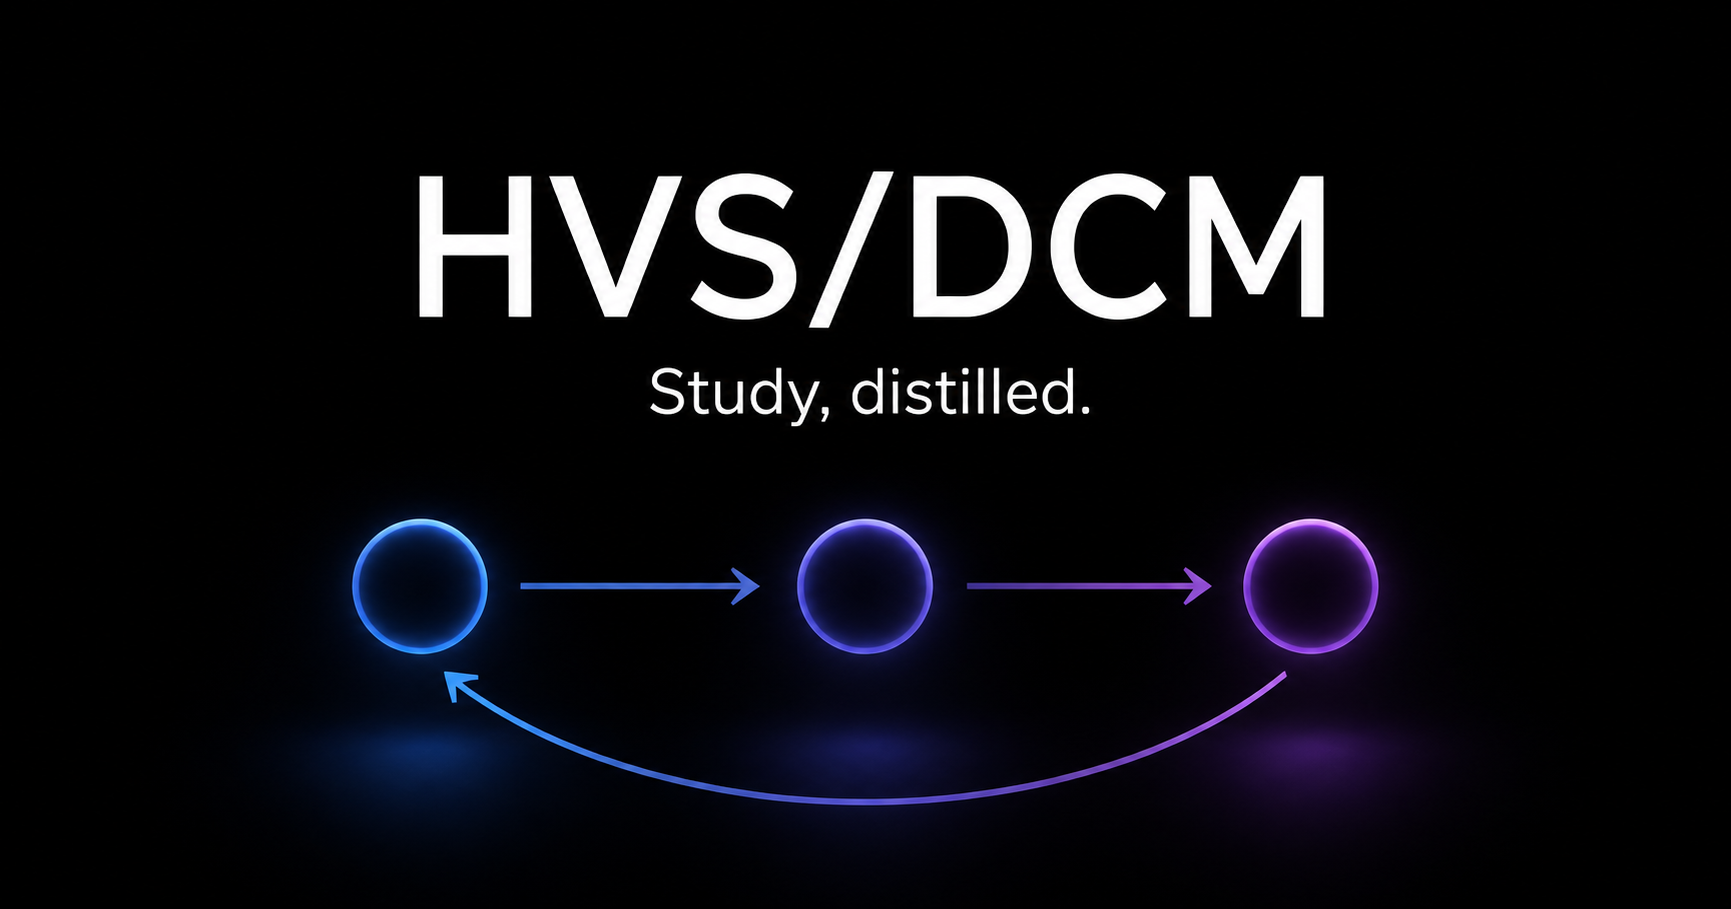
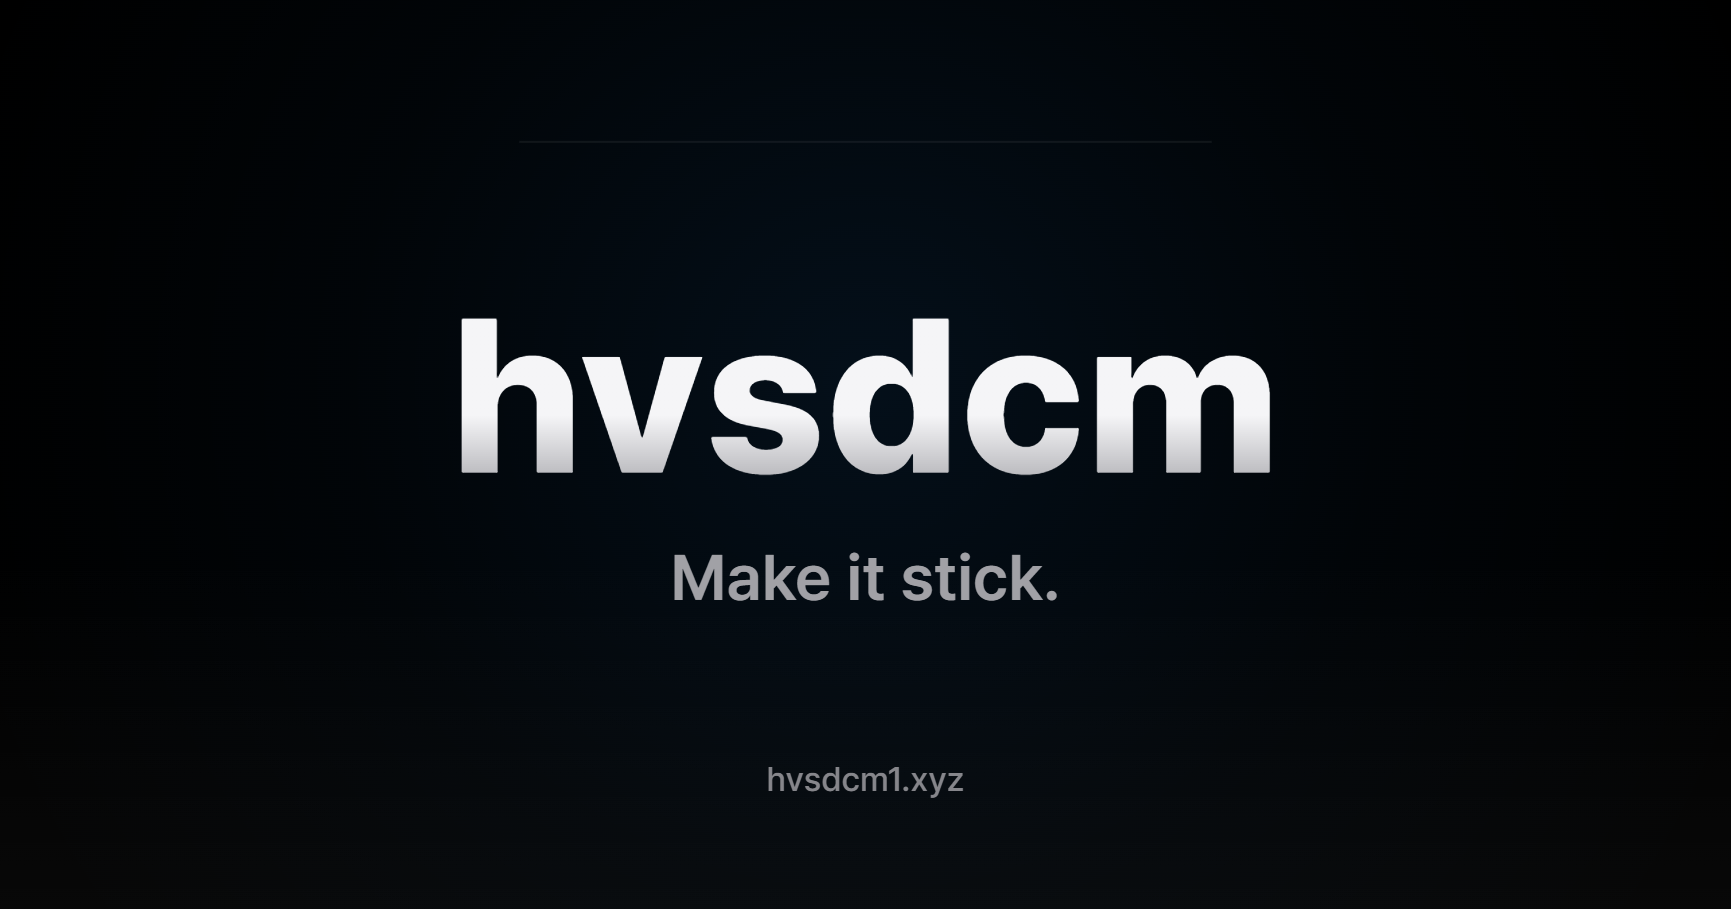
fix(B-1): og.png를 hvsdcm 소문자 워드마크·다크 팔레트로 재생성(1731x909 유지) + validate에 브랜드-해시 잠금쌍 검사 추가
- 캔버스 렌더(브라우저)로 생성, 빌드 의존성 추가 없음. og:image/twitter:image 경로 불변.
- validateOgImageLock(): 워드마크 문자열과 og.png sha256을 잠금쌍으로 고정 —
  브랜드가 바뀌면 검사가 즉시 실패하고, 잠금 갱신에는 이미지 재생성이 강제된다.
- M-4 주석의 '--surface:' 문구가 토큰 재정의 검사에 걸려 표현만 수정.

diff --git a/assets/css/home.css b/assets/css/home.css
@@ -183,7 +183,7 @@ body.logged .topbar-login { display: none; }
   grid-template-columns: minmax(0, 1fr) minmax(0, 1fr);
   align-items: center;
   gap: clamp(28px, 5vw, 72px);
-  /* 시작점 --surface: .feature-sub(--text-2 본문)가 밝은 끝에서도 7.03:1 ≥ 7:1 (plan §5, M-4) */
+  /* 시작점을 --surface로 — .feature-sub(--text-2 본문)가 밝은 끝에서도 7.03:1 ≥ 7:1 (plan §5, M-4) */
   background: linear-gradient(160deg, var(--surface), var(--bg-alt) 70%);
   overflow: hidden;
 }
